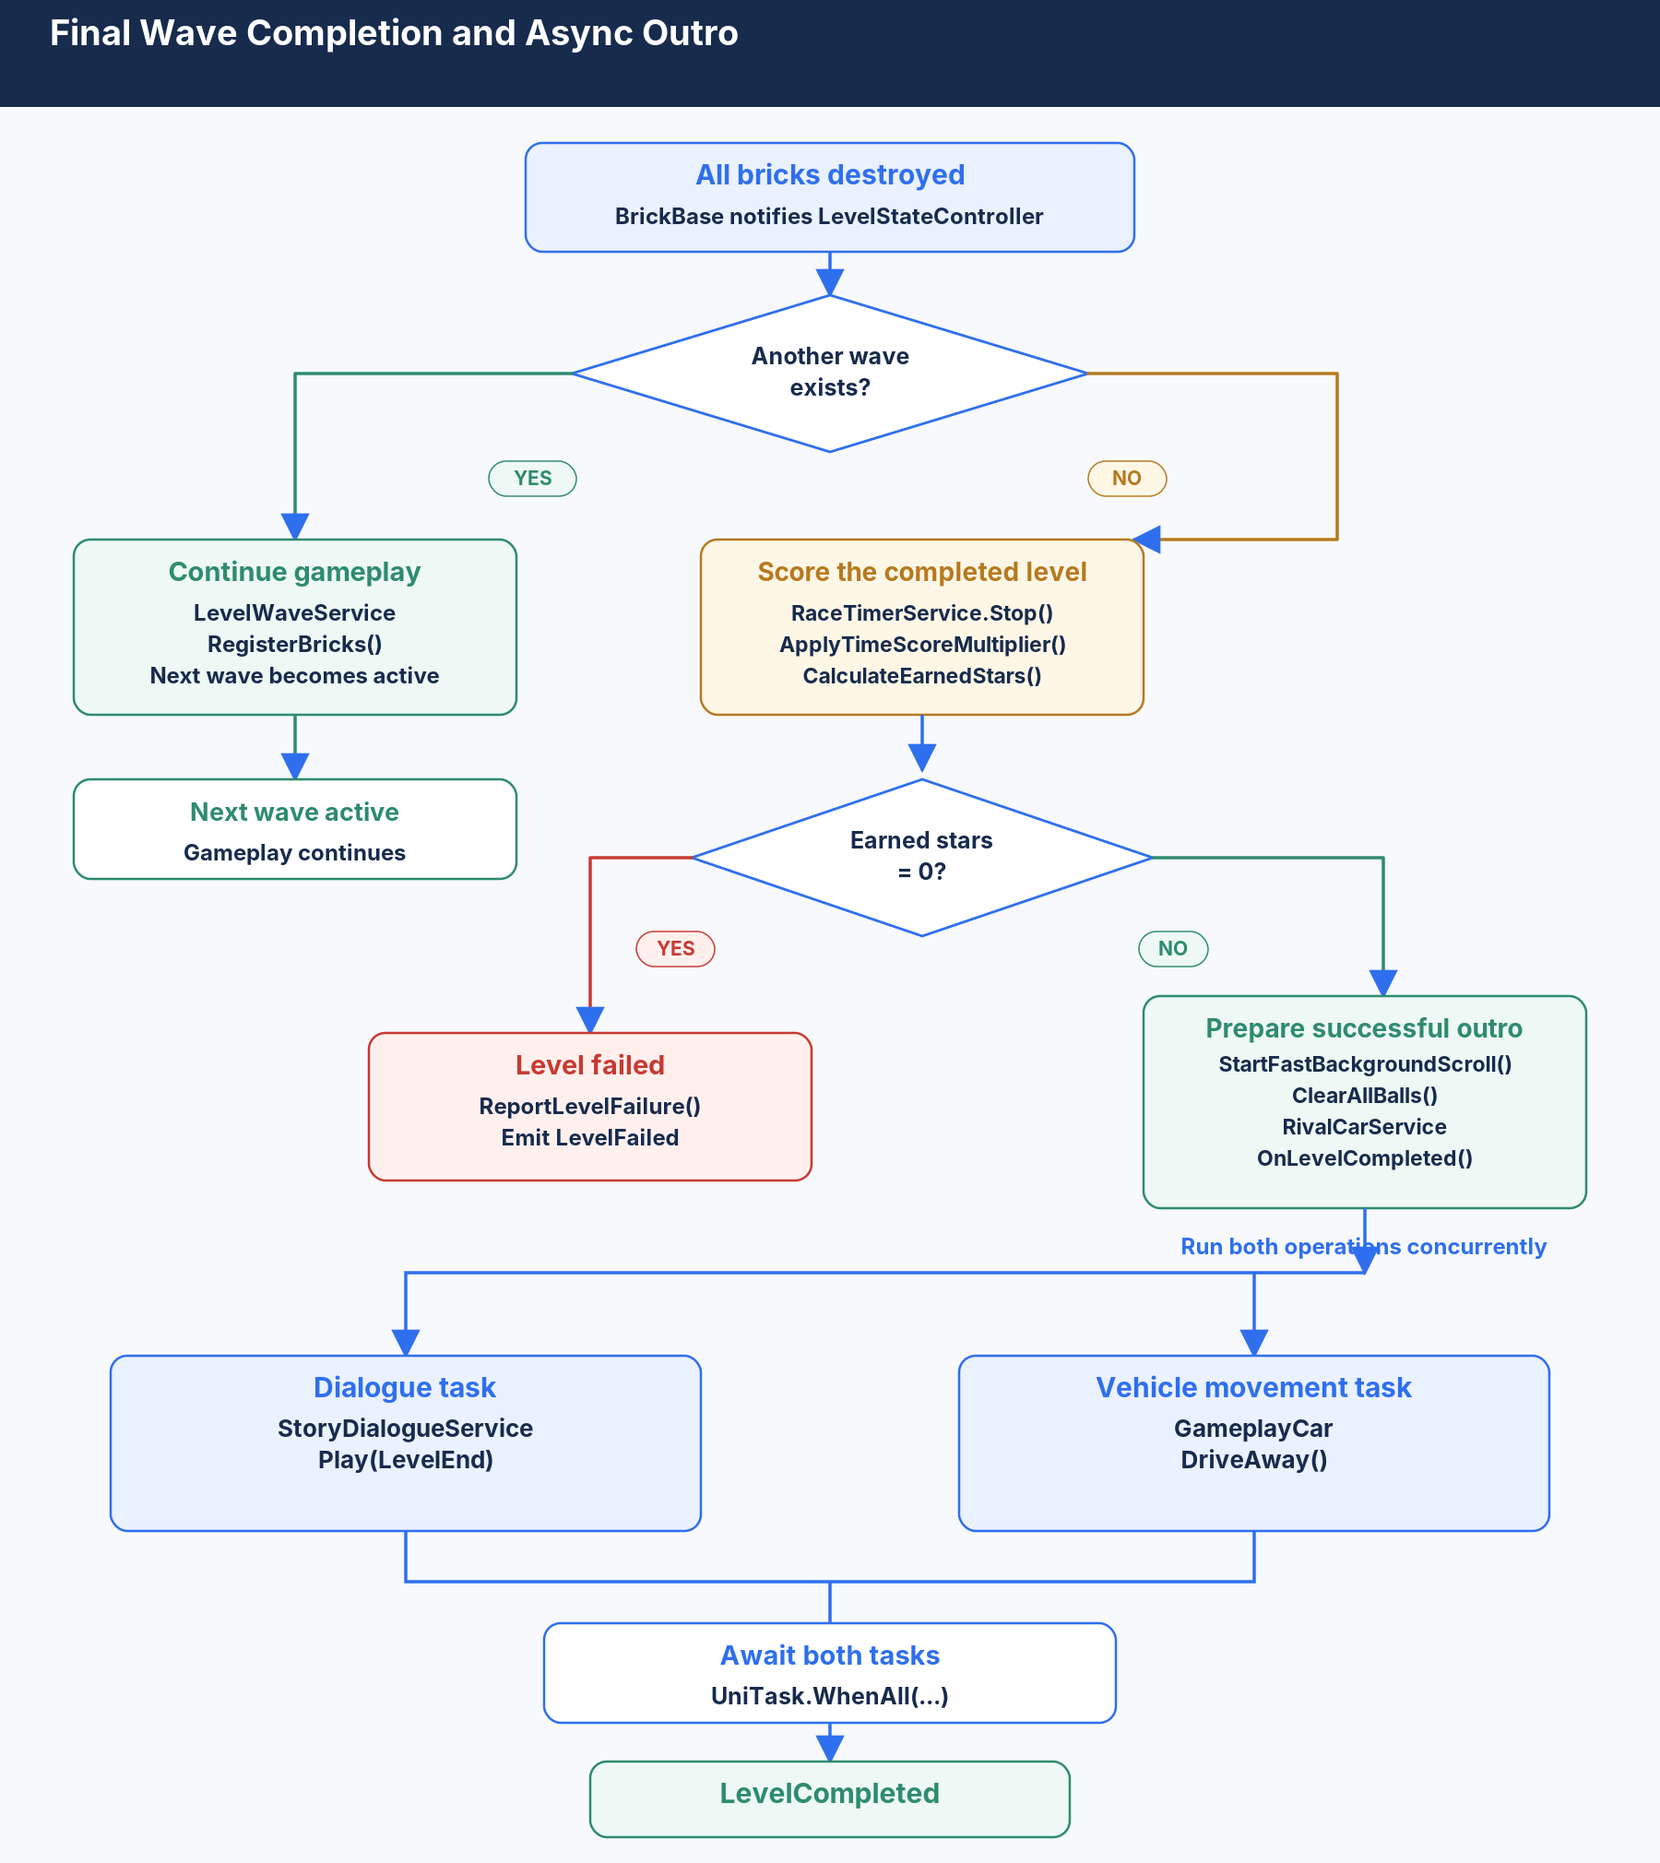
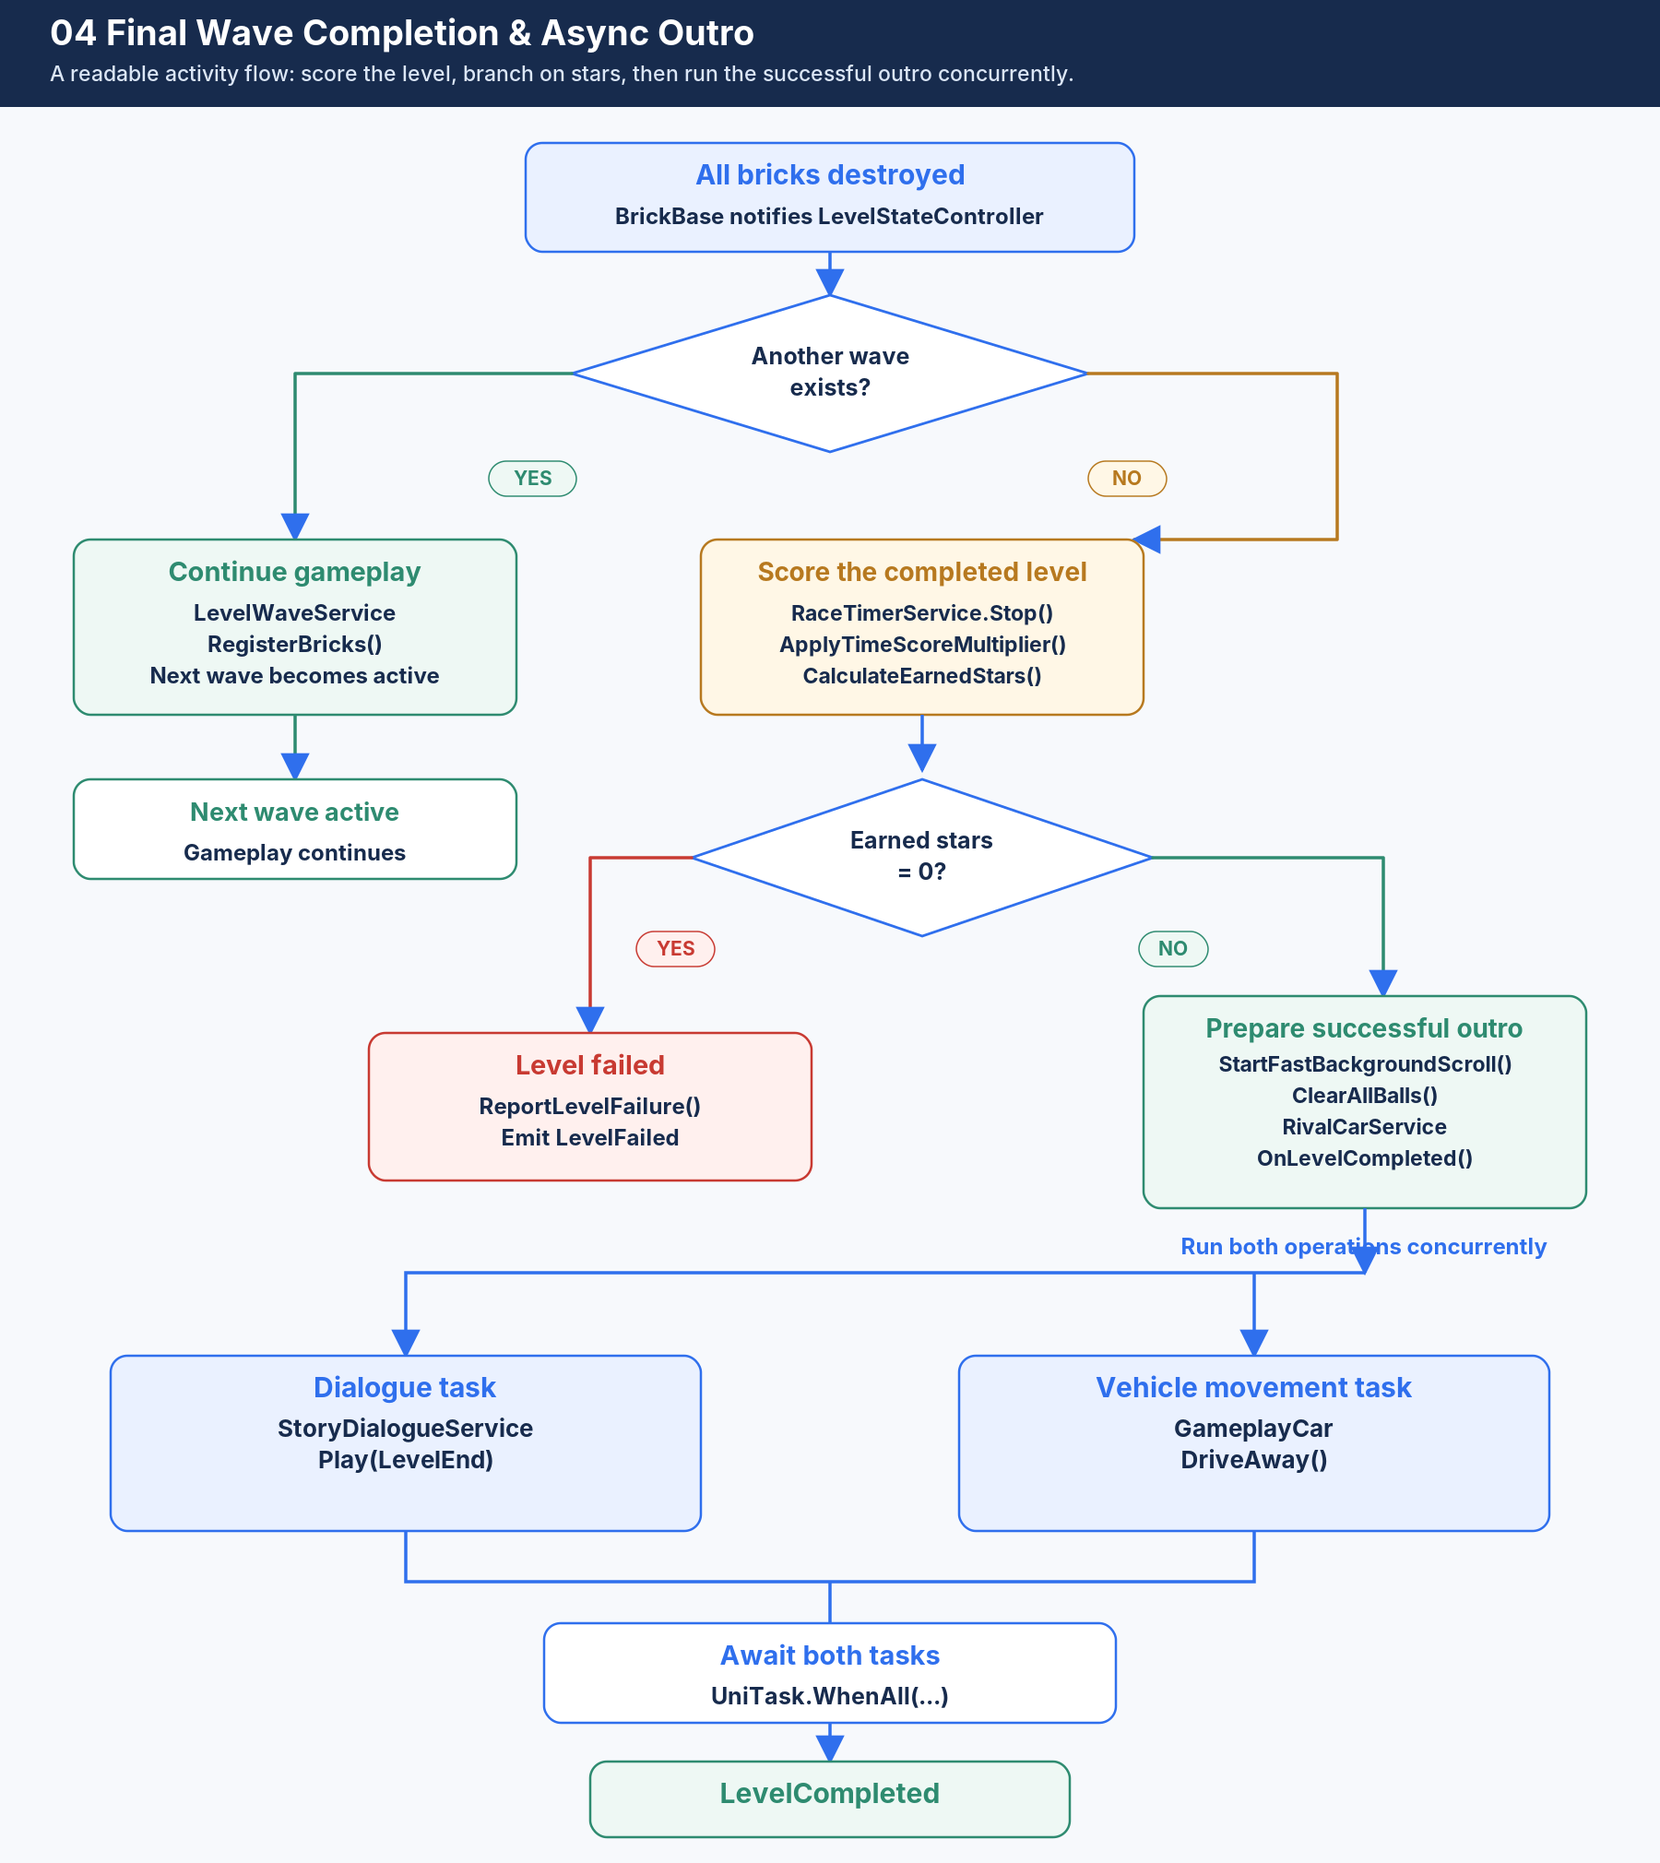
reactor: architecture update, language and color fix

Changed region(s): [[0.0311, 0.0, 0.56, 0.0624], [0.5911, 0.0312, 0.6222, 0.0624]]

diff --git a/js/main.js b/js/main.js
@@ -120,13 +120,12 @@ const translations = {
     "architecture.title": "Project Architecture",
     "architecture.lead": "My Night Ride is split into focused gameplay and progression systems rather than concentrating behaviour in large MonoBehaviours. <code>GameServices</code> provides a central access point for shared systems, while <code>GameplaySceneInitializer</code> constructs, connects and tears down gameplay-scoped services.",
     "architecture.lifecycleTitle": "Scene Lifecycle",
-    "architecture.lifecycleBody": "<code>GameplaySceneInitializer</code> creates and connects gameplay services during scene setup, then explicitly unregisters observers, unbinds events, disposes the race timer and clears gameplay service references during teardown.",
-    "architecture.persistenceTitle": "Structured Persistence",
-    "architecture.persistenceBody": "Runtime progression is held in a serializable <code>SaveData</code> model. <code>SaveService</code> converts it to JSON with <code>JsonUtility</code> and stores it through <code>PlayerPrefs</code>.",
-    "architecture.upgradesTitle": "Data-Driven Upgrades",
-    "architecture.upgradesBody": "<code>UpgradeDefinition</code> ScriptableObjects hold configurable costs, values and maximum levels. <code>UpgradeService</code> combines those definitions with the player's saved upgrade levels and exposes the resulting values to gameplay.",
+    "architecture.lifecycleBody": "<code>GameplaySceneInitializer</code> creates and connects gameplay services during scene setup, then explicitly unregisters observers, unbinds events, disposes the race timer and clears service references during teardown.",
+    "architecture.updateBody": "<code>IUpdateObserver</code> and <code>IFixedUpdateObserver</code> systems register with a central <code>UpdateManager</code> for per-frame and physics updates. This keeps update callbacks explicit and lets systems register only for the update type they need.",
     "architecture.asyncTitle": "Async Level Flow",
     "architecture.asyncBody": "<code>LevelStateController</code> handles the final-wave branch, scoring and star calculation. When the level succeeds, dialogue and the player's drive-away run concurrently through <code>UniTask.WhenAll</code> before the <code>LevelCompleted</code> event is raised.",
+    "architecture.lifecycleCaption": "GameplaySceneInitializer, created services, and GameServices access.",
+    "architecture.asyncCaption": "Final-wave completion and concurrent outro operations.",
     "architecture.servicesTitle": "Services & Lifecycle",
     "architecture.servicesBody1": "<code>GameplaySceneInitializer</code> acts as the gameplay scene's setup point, constructing and connecting systems such as ball handling, pausing, scoring, opponent vehicles, dialogue and race timing.",
     "architecture.servicesBody2": "Selected systems are exposed through <code>GameServices</code>. Gameplay-scoped observers and event subscriptions are explicitly removed when the scene is destroyed, keeping scene-specific state from carrying into later scenes.",
@@ -142,9 +141,7 @@ const translations = {
     "architecture.example": "CONCRETE EXAMPLE",
     "architecture.exampleTitle": "Gameplay reads the result, not the storage details",
     "architecture.exampleBody": "The movement controller can use the player's current car-speed value without needing to know how upgrade levels are configured, purchased or persisted.",
-    "media.umlServicesAlt": "My Night Ride scene lifecycle UML class diagram",
-    "media.umlPersistenceAlt": "My Night Ride structured persistence UML class diagram",
-    "media.umlUpgradesAlt": "My Night Ride data-driven upgrades UML class diagram",
+    "media.umlServicesAlt": "My Night Ride scene lifecycle architecture diagram",
     "media.umlAsyncAlt": "My Night Ride async level flow UML sequence diagram",
     "media.umlUpdateAlt": "My Night Ride centralized update dispatch diagram",
     "media.umlFlowAlt": "My Night Ride level completion flow diagram",
@@ -277,15 +274,8 @@ const translations = {
     "architecture.title": "Projektarchitektúra",
     "architecture.lead": "A My Night Ride a játékmeneti és fejlődési feladatokat fókuszált rendszerekre bontja ahelyett, hogy nagy MonoBehaviour osztályokba sűrítené őket. A <code>GameServices</code> központi hozzáférési pontot ad a megosztott rendszerekhez, míg a <code>GameplaySceneInitializer</code> létrehozza, összeköti és lebontáskor kitakarítja a játékmenethez tartozó szolgáltatásokat.",
     "architecture.lifecycleTitle": "Jelenet életciklusa",
-    "architecture.lifecycleBody": "A <code>GameplaySceneInitializer</code> a jelenet felépítése (setup) során létrehozza és összekapcsolja a játékmenet-szolgáltatásokat (gameplay services), majd a lebontás (teardown) során kifejezetten leiratkoztatja a megfigyelőket (observers), leköti az eseményeket (unbinds events), felszabadítja a versenyidőzítőt (disposes the race timer), és törli a játékmenet-szolgáltatások referenciáit.",
-    "architecture.persistenceTitle": "Strukturált adattárolás",
-    "architecture.persistenceBody": "A futásidejű haladás (runtime progression) egy szerializálható <code>SaveData</code> modellben tárolódik. A <code>SaveService</code> ezt a JsonUtility segítségével JSON formátumba konvertálja, majd a PlayerPrefs-en keresztül menti el.",
-    "architecture.lifecycleCaption": "A GameplaySceneInitializer, a kiválasztott szolgáltatások és a GameServices hozzáférés.",
-    "architecture.persistenceCaption": "A SaveService, a SaveData és a Unity perzisztencia-folyamata (vagy: tartós adattárolási folyamata)",
-    "architecture.upgradesCaption": "Fejlesztési definíciók (upgrade definitions), mentett szintek és futásidejű értékek.",
+    "architecture.lifecycleBody": "A <code>GameplaySceneInitializer</code> a jelenet felépítése során létrehozza és összekapcsolja a játékmeneti szolgáltatásokat, majd a lebontás során leiratkoztatja az observereket, leválasztja az eveneteket, felszabadítja a pálya timert és törli a service referenciákat.","architecture.lifecycleCaption": "A GameplaySceneInitializer, a létrehozott szolgáltatások és a GameServices hozzáférés.",
     "architecture.asyncCaption": "Az utolsó hullám teljesítése és a párhuzamos outró-műveletek.",
-    "architecture.upgradesTitle": "Adatvezérelt fejlesztések",
-    "architecture.upgradesBody": "Az <code>UpgradeDefinition</code> ScriptableObject-ek konfigurálható költségeket, értékeket és maximális szinteket tartalmaznak. Az <code>UpgradeService</code> összesíti ezeket a definíciókat a játékos mentett fejlesztési szintjeivel, és az így kapott értékeket elérhetővé teszi a játékmenet (gameplay) számára.",
     "architecture.asyncTitle": "Aszinkron szintkezelés",
     "architecture.asyncBody": "A <code>LevelStateController</code> kezeli az utolsó hullám (final-wave) elágazást, a pontozást és a csillagok kiszámítását. A szint sikeres teljesítésekor a dialógus és a játékos elvezetése (drive-away) párhuzamosan fut a <code>UniTask.WhenAll</code> segítségével, mielőtt a <code>LevelCompleted</code> esemény kiváltásra kerülne.",
     "architecture.servicesTitle": "Szolgáltatások és életciklus",
@@ -293,9 +283,8 @@ const translations = {
     "architecture.servicesBody2": "A kiválasztott rendszerek a <code>GameServices</code> segítségével érhetők el. A jelenethez kötött observerek és eseményfeliratkozások a jelenet megszűnésekor explicit módon eltávolításra kerülnek, így a játékmeneti állapot nem szivárog át a következő jelenetekbe.",
     "architecture.servicesCaption": "Kiválasztott játékmeneti szolgáltatások és inicializálási életciklusuk.",
     "architecture.updateTitle": "Központosított frissítéskezelés",
-    "architecture.updateBody1": "A frame- vagy fizikai frissítést igénylő rendszerek megvalósíthatják az <code>IUpdateObserver</code> vagy <code>IFixedUpdateObserver</code> interfészt, majd regisztrálhatnak a közös <code>UpdateManager</code>-hez.",
-    "architecture.updateBody2": "A <code>LevelWaveGroup</code> például csak addig regisztrál fixed update frissítésre, amíg a hullám a helyére mozog, majd a mozgás befejezésekor azonnal leiratkozik.",
-    "architecture.updateCaption": "UpdateManager és observer-regisztráció a hullám mozgása közben.",
+    "architecture.updateBody": "Az <code>IUpdateObserver</code> és <code>IFixedUpdateObserver</code> interfészt használó rendszerek a központi <code>UpdateManager</code>-hez regisztrálnak frame- és fizikai frissítésekhez. Ez egyértelművé teszi a frissítési visszahívásokat, és csak a szükséges frissítéstípushoz köti a rendszereket.",
+    "architecture.updateCaption": "UpdateManager, observer interfészek és frame- vagy fixed-update regisztráció.",
     "architecture.flowTitle": "Pályabefejezési folyamat",
     "architecture.flowBody1": "A <code>LevelStateController</code> követi a rombolható téglákat, és eldönti, hogy a teljesítés egy következő hullámra lép-e tovább vagy belép a végső pályafolyamatba.",
     "architecture.flowBody2": "Az utolsó hullámnál a versenyidő leáll, a pontszám és csillagok kiszámításra kerülnek, a nulla csillagos eredmény pedig kudarcot jelent. Sikeres záráskor a háttérállapot, rivális járművek, párbeszéd és az autó kihajtása kerül összehangolásra; a <code>UniTask.WhenAll</code> megvárja a párhuzamos műveletek befejezését a pályateljesítés jelzése előtt.",

diff --git a/index.html b/index.html
@@ -171,29 +171,21 @@
 
   <article class="architecture-block">
     <div>
-      <h3 data-i18n="architecture.lifecycleTitle">Scene Lifecycle</h3>
-      <p data-i18n-html="architecture.lifecycleBody"><code>GameplaySceneInitializer</code> creates and connects gameplay services during scene setup, then explicitly unregisters observers, unbinds events, disposes the race timer and clears gameplay service references during teardown.</p>
+      <h3 data-i18n="architecture.updateTitle">Update Architecture</h3>
+      <p data-i18n-html="architecture.updateBody"><code>IUpdateObserver</code> and <code>IFixedUpdateObserver</code> systems register with a central <code>UpdateManager</code> for per-frame and physics updates. This keeps update callbacks explicit and lets systems register only for the update type they need.</p>
     </div>
-    <figure class="media-card uml-card"><img src="assets/images/uml-scene-lifecycle.png" alt="My Night Ride scene lifecycle UML class diagram" data-i18n-alt="media.umlServicesAlt" data-lightbox><figcaption data-i18n="architecture.lifecycleCaption">GameplaySceneInitializer, selected services, and GameServices access.</figcaption></figure>
+    <figure class="media-card uml-card"><img src="assets/images/uml-update-architecture.png" alt="My Night Ride centralized update architecture diagram" data-i18n-alt="media.umlUpdateAlt" data-lightbox><figcaption data-i18n="architecture.updateCaption">UpdateManager, observer interfaces, and per-frame or fixed-update registration.</figcaption></figure>
   </article>
 
   <article class="architecture-block reverse">
     <div>
-      <h3 data-i18n="architecture.persistenceTitle">Structured Persistence</h3>
-      <p data-i18n-html="architecture.persistenceBody">Runtime progression is held in a serializable <code>SaveData</code> model. <code>SaveService</code> converts it to JSON with <code>JsonUtility</code> and stores it through <code>PlayerPrefs</code>.</p>
+      <h3 data-i18n="architecture.lifecycleTitle">Scene Lifecycle</h3>
+      <p data-i18n-html="architecture.lifecycleBody"><code>GameplaySceneInitializer</code> creates and connects gameplay services during scene setup, then explicitly unregisters observers, unbinds events, disposes the race timer and clears service references during teardown.</p>
     </div>
-    <figure class="media-card uml-card"><img src="assets/images/uml-persistence.png" alt="My Night Ride persistence UML class diagram" data-i18n-alt="media.umlPersistenceAlt" data-lightbox><figcaption data-i18n="architecture.persistenceCaption">SaveService, SaveData, and the Unity persistence flow.</figcaption></figure>
+    <figure class="media-card uml-card"><img src="assets/images/uml-scene-lifecycle.png" alt="My Night Ride scene lifecycle architecture diagram" data-i18n-alt="media.umlServicesAlt" data-lightbox><figcaption data-i18n="architecture.lifecycleCaption">GameplaySceneInitializer, created services, and GameServices access.</figcaption></figure>
   </article>
 
   <article class="architecture-block">
-    <div>
-      <h3 data-i18n="architecture.upgradesTitle">Data-Driven Upgrades</h3>
-      <p data-i18n-html="architecture.upgradesBody"><code>UpgradeDefinition</code> ScriptableObjects hold configurable costs, values and maximum levels. <code>UpgradeService</code> combines those definitions with the player's saved upgrade levels and exposes the resulting values to gameplay.</p>
-    </div>
-    <figure class="media-card uml-card"><img src="assets/images/uml-upgrades.png" alt="My Night Ride data-driven upgrades UML class diagram" data-i18n-alt="media.umlUpgradesAlt" data-lightbox><figcaption data-i18n="architecture.upgradesCaption">Upgrade definitions, saved levels, and runtime values.</figcaption></figure>
-  </article>
-
-  <article class="architecture-block reverse">
     <div>
       <h3 data-i18n="architecture.asyncTitle">Async Level Flow</h3>
       <p data-i18n-html="architecture.asyncBody"><code>LevelStateController</code> handles the final-wave branch, scoring and star calculation. When the level succeeds, dialogue and the player's drive-away run concurrently through <code>UniTask.WhenAll</code> before the <code>LevelCompleted</code> event is raised.</p>

diff --git a/css/style.css b/css/style.css
@@ -60,6 +60,7 @@ figcaption { padding:12px 16px; color:var(--muted); font-size:.85rem; text-align
 table { width:100%; min-width:760px; border-collapse:collapse; background:var(--surface); }
 th,td { padding:16px 18px; text-align:left; border-bottom:1px solid var(--border); }
 th { background:var(--surface-2); font-size:.82rem; text-transform:uppercase; }
+th:first-child, td:first-child, th:last-child, td:last-child { white-space:nowrap; }
 td { color:var(--muted); }
 .status { display:inline-flex; padding:5px 9px; border-radius:999px; font-size:.72rem; font-weight:900; background:var(--todo); color:#2b1e00; }
 .architecture-block { margin-top:64px; }
@@ -100,4 +101,17 @@ pre { overflow-x:auto; padding:18px; background:#080a0d; border-radius:12px; }
   .footer-inner { flex-direction:column; }
   .language-button span:last-child { display:none; }
   .language-button { padding:7px 9px; }
+}
+
+/* Test result status colours */
+.status.passed {
+  background: rgba(46, 204, 113, .16) !important;
+  color: #62e89a !important;
+  border: 1px solid rgba(46, 204, 113, .35) !important;
+}
+
+.status.retest {
+  background: rgba(245, 166, 35, .16) !important;
+  color: #ffbe55 !important;
+  border: 1px solid rgba(245, 166, 35, .35) !important;
 }
